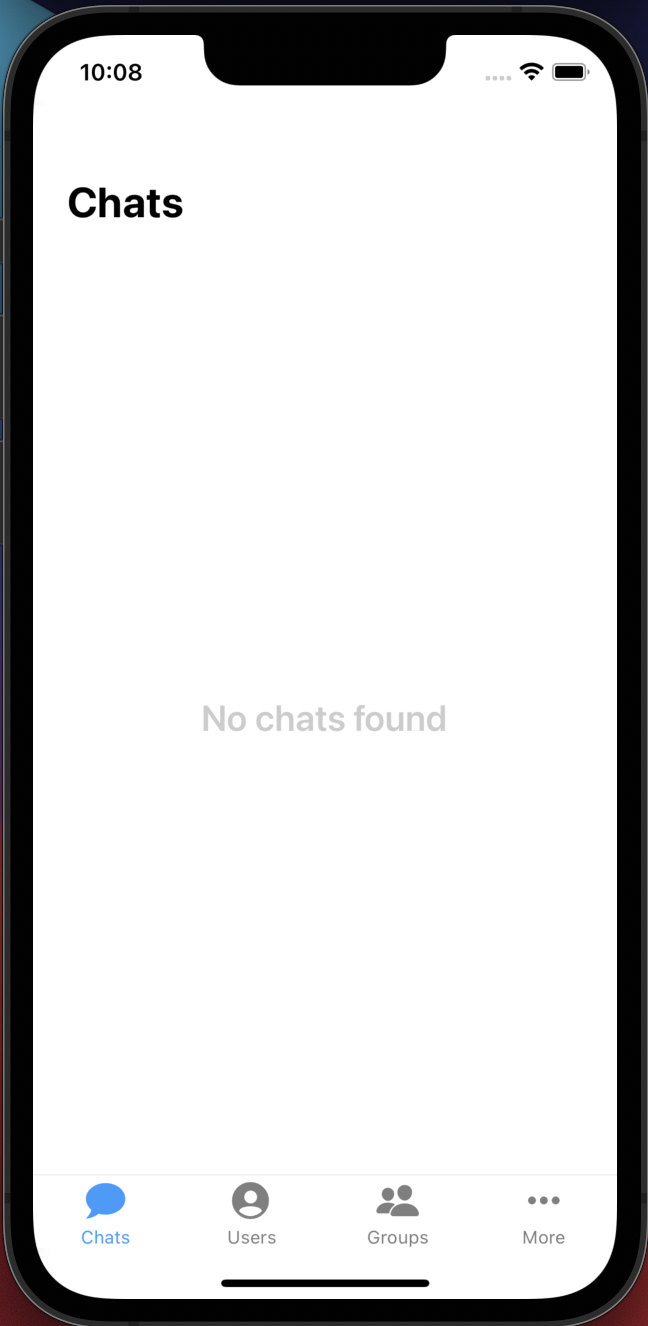
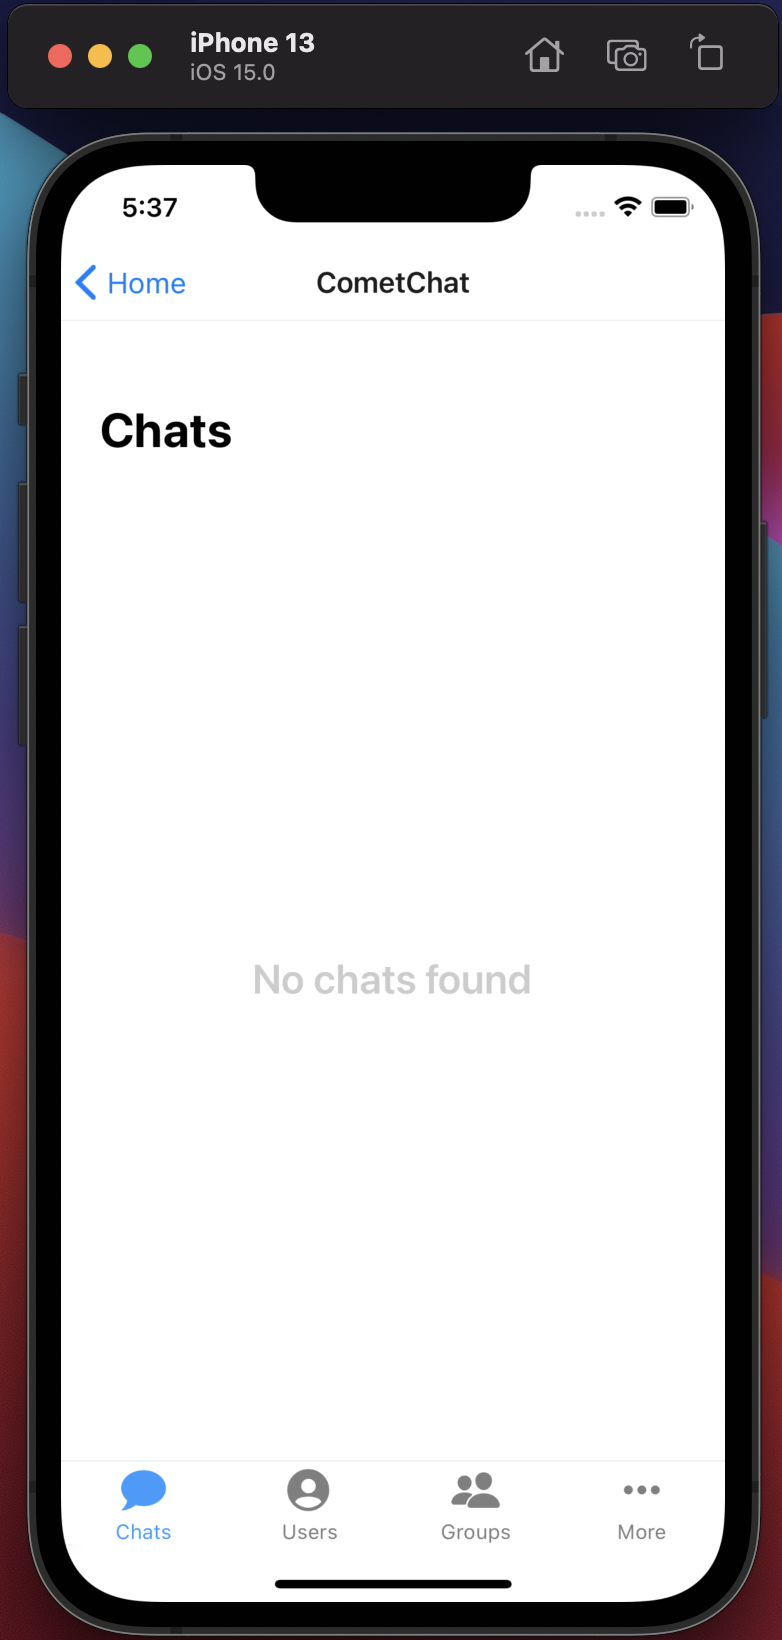
Updated readme.md

diff --git a/README.md b/README.md
@@ -865,7 +865,8 @@ export const FirebaseProvider = ({children}) => {
   );
 };
 
-// Custom Hook will help us to use {firebaseUser, dispatchFirebaseAction} inside our App similar to Redux State & Actions dispatch.
+// Custom Hook will help us to use {firebaseUser, dispatchFirebaseAction}
+// inside our App similar to Redux State & Actions dispatch.
 export const useFirebase = () => useContext(FirebaseContext);
 ```
 
@@ -880,7 +881,7 @@ import {NavigationContainer} from '@react-navigation/native';
 import MainScreens from './screens';
 import {styles} from './styles';
 
-import {FirebaseProvider} from './context/FirebaseContext'; // 👈
+import {FirebaseProvider} from './context/FirebaseContext'; // 👈 Firebase Provider
 
 const App = () => {
   return (
@@ -919,7 +920,8 @@ export default function SignUp() {
     password: '',
   });
 
-  const {firebaseUser, dispatchFirebaseAction} = useFirebase(); // 👈 Destructuring {firebaseUser, dispatchFirebaseAction}
+  // 👇 Destructuring {firebaseUser, dispatchFirebaseAction}
+  const {firebaseUser, dispatchFirebaseAction} = useFirebase();
 
   const handleSignUp = () => {
     if (data.name !== '' && data.email !== '' && data.password !== '') {
@@ -1027,7 +1029,8 @@ export default function Login({navigation}) {
     password: '',
   });
 
-  const {firebaseUser, dispatchFirebaseAction} = useFirebase(); // 👈 Destructuring {firebaseUser, dispatchFirebaseAction}
+  // 👇 Destructuring {firebaseUser, dispatchFirebaseAction}
+  const {firebaseUser, dispatchFirebaseAction} = useFirebase();
 
   const handleSignIn = async () => {
     try {
@@ -1107,16 +1110,16 @@ Please read the comments inside the code above for an understanding of what we a
 We also need to update our MainScreens logic inside `screens/index.js` to show `<AuthScreens />` or `<HomeScreen />` based on user authentication.
 
 ```js
-import React, {useEffect} from 'react'; // 👈
+import React, {useEffect} from 'react'; // 👈 Importing useEffect
 import {createStackNavigator} from '@react-navigation/stack';
 
 import SignIn from './Login';
 import SignUp from './SignUp';
-// New screens that we will create next.
+// 👇 New screens that we will create next.
 import Home from './Home';
 import Profile from './Profile';
 
-// Firebase functions for handling Authentication State Change
+// 👇 Firebase functions for handling Authentication State Change
 import {useFirebase} from '../context/FirebaseContext';
 import {onAuthStateChanged} from '@firebase/auth';
 import {firebaseAuth} from '../firebase';
@@ -1130,7 +1133,7 @@ const AuthScreens = () => (
   </Stack.Navigator>
 );
 
-// New Stack Navigation for Home, Profile, that are coming next.
+// 👇 New Stack Navigation for Home, Profile, that are coming next.
 const HomeScreen = () => (
   <Stack.Navigator>
     <Stack.Screen name="Home" component={Home} />
@@ -1139,7 +1142,8 @@ const HomeScreen = () => (
 );
 
 const MainScreens = () => {
-  const {firebaseUser, dispatchFirebaseAction} = useFirebase(); // 👈 Check our context state & dispatch actions.
+  // 👇 Check our context state & dispatch actions.
+  const {firebaseUser, dispatchFirebaseAction} = useFirebase();
 
   useEffect(() => {
     const unlisten = onAuthStateChanged(firebaseAuth, user => {
@@ -1175,8 +1179,8 @@ As you can see, we added a couple of new screens (that don't exist yet) and also
 
 Let's add the new screens:
 
-- Home (/screens/Home/index.js)
-- Profile (/screens/Profile/index.js)
+- Home
+- Profile
 
 `/screens/Home/index.js`
 
@@ -1228,31 +1232,16 @@ export default function Home({navigation}) {
 `/screens/Profile/index.js`
 
 ```js
-import React, {useEffect, useCallback} from 'react';
+import React, {useEffect} from 'react';
 import {View, Text, TouchableOpacity} from 'react-native';
 import {styles} from '../../styles';
 import {useFirebase} from '../../context/FirebaseContext';
-import {firebaseAuth} from '../../firebase';
-import {signOut} from 'firebase/auth';
 import {Avatar} from 'react-native-elements';
 
 export default function Profile({navigation}) {
-  const {firebaseUser, dispatchFirebaseAction} = useFirebase();
+  const {firebaseUser} = useFirebase();
 
-  // Handle the Logout process for both Firebase
-  const handleLogout = useCallback(() => {
-    signOut(firebaseAuth)
-      .then(() => {
-        dispatchFirebaseAction({type: 'FIREBASE_LOGOUT'});
-      })
-      .catch(e => {
-        dispatchFirebaseAction({
-          type: 'AUTH_FAILED',
-          error: e.message,
-          isLoggedIn: false,
-        });
-      });
-  }, [dispatchFirebaseAction]);
+  const handleLogout = () => {};
 
   useEffect(() => {
     navigation.setOptions({
@@ -1286,8 +1275,6 @@ export default function Profile({navigation}) {
 
 Finally, you should test the Firebase Authentication process for Login/LogOut/SignUp users. Feel free to run the app on the simulator. If everything is OK, you should see a Home screen with a welcoming message after you successfully SignUp/LogIn.
 
-**Warning** be careful if you press the top right messages Icon. No worries if you find an issue there. It will try to navigate into a screen that doesn't exist... yet. Just keep reading.
-
 ![Home Screen](./screenshots/home-screen.png)
 
 ## CometChat SignUp & SignIn
@@ -1296,7 +1283,7 @@ Once we finish with Firebase Authentication, finally, we can jump right into Com
 
 Add a new screen called CometChatScreens inside `/screens/CometChatScreens/index.js`
 
-``/screens/CometChatScreens/index.js`
+`/screens/CometChatScreens/index.js`
 
 ```js
 import React, {useEffect} from 'react';
@@ -1437,7 +1424,11 @@ const MainScreens = () => {
 export default MainScreens;
 ```
 
-Now we can test the Sign Up process. If everything is OK, you can see the new user information if you Login into [cometchat.com](https://www.cometchat.com/) account and open the Users section of the Dashboard. When you create an App, it also comes with a couple of Super Heros users that you can use for testing.
+Now we can test the Sign Up process. For that run the App in the simulator and press Sign Up button.
+
+![CometChat Screen](./screenshots/cometchatscreen.png)
+
+If everything is OK, you can see the new user information if you Login into [cometchat.com](https://www.cometchat.com/) account and open the Users section of the Dashboard. When you create an App, it also comes with a couple of Super Heros users that you can use for testing.
 
 ![CometChat users dashboard](./screenshots/user-registration-dashboard.png)
 
@@ -1445,7 +1436,7 @@ Now we can test the Sign Up process. If everything is OK, you can see the new us
 
 Now that we have the basic authentication process, let's add a new screen from the **CometChat React Native UI Kit** to test the complete app with Login and show the CometChatUIScreen.
 
-`/src/screens/CometChatScreens/index.js`
+`/screens/CometChatScreens/index.js`
 
 ```js
 import React, {useEffect} from 'react';
@@ -1545,8 +1536,6 @@ We added a couple of more screens and an extra Stack.Navigator named **CometChat
 We will write some logic to handle the authentication into CometChat. If the user is logged-in we will redirect him into `<CometChatUI />` otherwise we will show the Sign In & Sign Up buttons.
 
 Similar to Firebase we will create a **CometChatAuthContext Provider**. Create a new file named `/context/CometChatAuthContext.js`
-
-`/context/CometChatAuthContext.js`
 
 ```js
 import React, {useReducer} from 'react';
